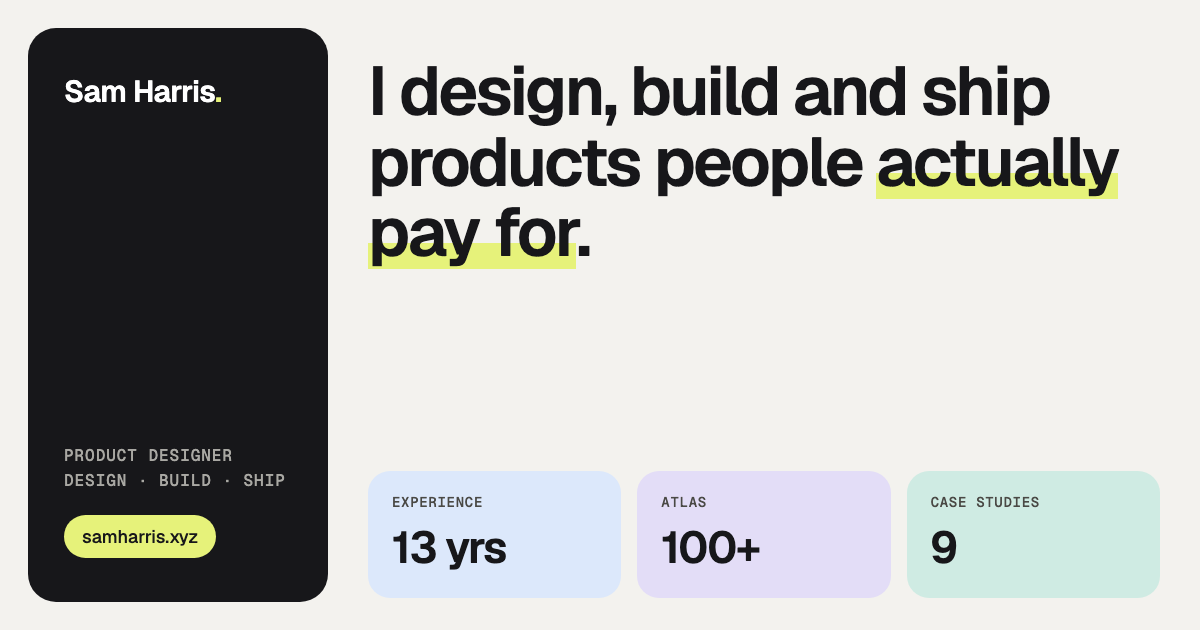
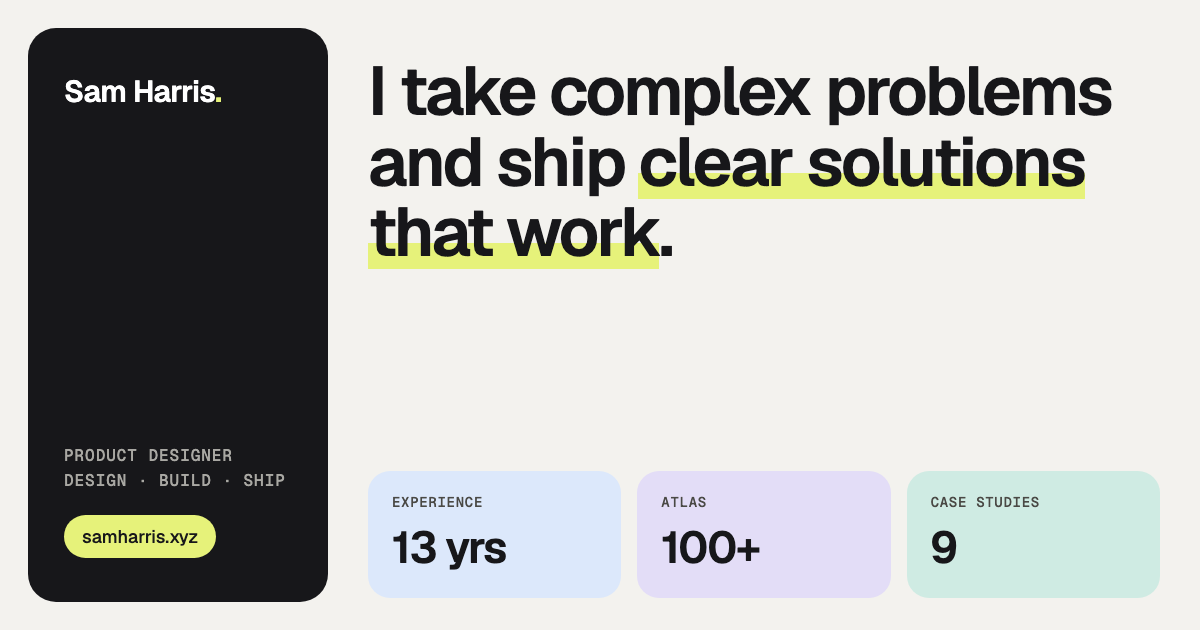
Reword the home headline and make the Noa footer line one link

Changed region(s): [[0.3083, 0.0905, 0.9558, 0.4524]]

diff --git a/index.html b/index.html
@@ -14,7 +14,7 @@
 <meta property="og:image" content="https://samharris.xyz/img/og.png">
 <meta property="og:image:width" content="1200">
 <meta property="og:image:height" content="630">
-<meta property="og:image:alt" content="Sam Harris, product designer: I design, build and ship products people actually pay for.">
+<meta property="og:image:alt" content="Sam Harris, product designer: I take complex problems and ship clear solutions that work.">
 <meta name="twitter:card" content="summary_large_image">
 <meta name="twitter:title" content="Sam Harris | Product designer">
 <meta name="twitter:description" content="Sam Harris, product designer. Thirteen years making complex products simpler: designing the experience, building the front-end and helping shape what gets built.">
@@ -48,8 +48,8 @@
     <header class="head">
       <div class="head-copy">
         <div class="eyebrow">Sam Harris · Product designer at Kato</div>
-        <h1>I design, build and ship products people <mark>actually pay for</mark>.</h1>
-        <p class="intro">13 years taking products from first idea to shipped front-end.</p>
+        <h1>I take complex problems and ship <mark>clear solutions that work</mark>.</h1>
+        <p class="intro">I work out what to build, design it and write the front-end. 13 years of taking products from first idea to production.</p>
       </div>
       <div class="btns">
         <a class="btn secondary" href="sam-harris-cv.pdf" data-umami-event="CV download" target="_blank" rel="noopener">Download CV</a>
@@ -94,7 +94,7 @@
     </section>
 
     <footer class="foot">
-      <span>Also: <a href="case-study-noa.html">Noa</a>, a personal iOS app I designed and built ↗</span>
+      <a class="also" href="case-study-noa.html">Also: <b>Noa</b>, a personal iOS app I designed and built ↗</a>
       <a class="mail" href="mailto:samharris26@gmail.com">samharris26@gmail.com</a>
     </footer>
   </main>

diff --git a/case-study-billing.html b/case-study-billing.html
@@ -14,7 +14,7 @@
 <meta property="og:image" content="https://samharris.xyz/img/og.png">
 <meta property="og:image:width" content="1200">
 <meta property="og:image:height" content="630">
-<meta property="og:image:alt" content="Sam Harris, product designer: I design, build and ship products people actually pay for.">
+<meta property="og:image:alt" content="Sam Harris, product designer: I take complex problems and ship clear solutions that work.">
 <meta name="twitter:card" content="summary_large_image">
 <meta name="twitter:title" content="Society Billing | Sam Harris">
 <meta name="twitter:description" content="Moving ~700 organisations from a manual, CS-led invoicing model to a fully self-serve billing experience.">
@@ -175,7 +175,7 @@
     </div>
 
     <footer class="foot" style="margin-top:0">
-      <span>Also: <a href="case-study-noa.html">Noa</a>, a personal iOS app I designed and built ↗</span>
+      <a class="also" href="case-study-noa.html">Also: <b>Noa</b>, a personal iOS app I designed and built ↗</a>
       <a class="mail" href="mailto:samharris26@gmail.com">samharris26@gmail.com</a>
     </footer>
   </main>

diff --git a/case-study-noa.html b/case-study-noa.html
@@ -14,7 +14,7 @@
 <meta property="og:image" content="https://samharris.xyz/img/og.png">
 <meta property="og:image:width" content="1200">
 <meta property="og:image:height" content="630">
-<meta property="og:image:alt" content="Sam Harris, product designer: I design, build and ship products people actually pay for.">
+<meta property="og:image:alt" content="Sam Harris, product designer: I take complex problems and ship clear solutions that work.">
 <meta name="twitter:card" content="summary_large_image">
 <meta name="twitter:title" content="Personal Noa | Sam Harris">
 <meta name="twitter:description" content="A consumer app that simplifies how individuals, couples, and families manage daily life (calendars, tasks, lists, and reminders) by letting people interact naturally instead of forcing them into rigid systems. Now live on the App Store with over 200 users.">

diff --git a/case-study-hinterview-insights.html b/case-study-hinterview-insights.html
@@ -14,7 +14,7 @@
 <meta property="og:image" content="https://samharris.xyz/img/og.png">
 <meta property="og:image:width" content="1200">
 <meta property="og:image:height" content="630">
-<meta property="og:image:alt" content="Sam Harris, product designer: I design, build and ship products people actually pay for.">
+<meta property="og:image:alt" content="Sam Harris, product designer: I take complex problems and ship clear solutions that work.">
 <meta name="twitter:card" content="summary_large_image">
 <meta name="twitter:title" content="Hinterview Insights | Sam Harris">
 <meta name="twitter:description" content="A 0–1 insights dashboard consolidating key metrics into a single, user-friendly interface, for recruiters optimising their video outreach and managers setting team targets.">

diff --git a/case-study-notifications.html b/case-study-notifications.html
@@ -14,7 +14,7 @@
 <meta property="og:image" content="https://samharris.xyz/img/og.png">
 <meta property="og:image:width" content="1200">
 <meta property="og:image:height" content="630">
-<meta property="og:image:alt" content="Sam Harris, product designer: I design, build and ship products people actually pay for.">
+<meta property="og:image:alt" content="Sam Harris, product designer: I take complex problems and ship clear solutions that work.">
 <meta name="twitter:card" content="summary_large_image">
 <meta name="twitter:title" content="Notifications | Sam Harris">
 <meta name="twitter:description" content="In-app notifications for Kato&#x27;s agency app, taken from first exploration to a shipped notification centre. I product managed, designed and built it.">

diff --git a/case-study-hinterview-extension.html b/case-study-hinterview-extension.html
@@ -14,7 +14,7 @@
 <meta property="og:image" content="https://samharris.xyz/img/og.png">
 <meta property="og:image:width" content="1200">
 <meta property="og:image:height" content="630">
-<meta property="og:image:alt" content="Sam Harris, product designer: I design, build and ship products people actually pay for.">
+<meta property="og:image:alt" content="Sam Harris, product designer: I take complex problems and ship clear solutions that work.">
 <meta name="twitter:card" content="summary_large_image">
 <meta name="twitter:title" content="Hinterview Chrome extension | Sam Harris">
 <meta name="twitter:description" content="A Chrome extension that lets recruiters capture and share candidate video interviews directly from their browser. No tab-juggling.">

diff --git a/app.css b/app.css
@@ -93,6 +93,9 @@ h1 mark{background:linear-gradient(transparent 62%,var(--lime) 62% 92%,transpare
 .foot{display:flex;justify-content:space-between;align-items:center;gap:16px;flex-wrap:wrap;border-top:1px solid var(--border);padding-top:20px;color:var(--text-2);margin-top:-16px}
 .foot a{font-weight:500}
 .foot a.mail{font-weight:400}
+.foot a.also{font-weight:400;color:var(--text-2)}
+.foot a.also b{font-weight:500;color:var(--ink);transition:color .15s}
+.foot a.also:hover,.foot a.also:hover b{color:var(--accent)}
 
 .topbar,.tabs{display:none}
 .toast{position:fixed;left:50%;bottom:28px;transform:translate(-50%,20px);opacity:0;background:var(--ink);color:#fff;padding:12px 18px;border-radius:99px;transition:all .25s;pointer-events:none;z-index:50}

diff --git a/case-study-venuescanner-dashboard.html b/case-study-venuescanner-dashboard.html
@@ -14,7 +14,7 @@
 <meta property="og:image" content="https://samharris.xyz/img/og.png">
 <meta property="og:image:width" content="1200">
 <meta property="og:image:height" content="630">
-<meta property="og:image:alt" content="Sam Harris, product designer: I design, build and ship products people actually pay for.">
+<meta property="og:image:alt" content="Sam Harris, product designer: I take complex problems and ship clear solutions that work.">
 <meta name="twitter:card" content="summary_large_image">
 <meta name="twitter:title" content="VenueScanner Dashboard | Sam Harris">
 <meta name="twitter:description" content="A comprehensive, user-friendly platform for hosts to oversee bookings, communicate with clients, and manage enquiries efficiently.">

diff --git a/case-study-venuescanner-booking.html b/case-study-venuescanner-booking.html
@@ -14,7 +14,7 @@
 <meta property="og:image" content="https://samharris.xyz/img/og.png">
 <meta property="og:image:width" content="1200">
 <meta property="og:image:height" content="630">
-<meta property="og:image:alt" content="Sam Harris, product designer: I design, build and ship products people actually pay for.">
+<meta property="og:image:alt" content="Sam Harris, product designer: I take complex problems and ship clear solutions that work.">
 <meta name="twitter:card" content="summary_large_image">
 <meta name="twitter:title" content="VenueScanner Booking | Sam Harris">
 <meta name="twitter:description" content="Redesigning the &#x27;Mark as Booked&#x27; feature to increase host utilisation: more visible, more usable, more used.">

diff --git a/about.html b/about.html
@@ -14,7 +14,7 @@
 <meta property="og:image" content="https://samharris.xyz/img/og.png">
 <meta property="og:image:width" content="1200">
 <meta property="og:image:height" content="630">
-<meta property="og:image:alt" content="Sam Harris, product designer: I design, build and ship products people actually pay for.">
+<meta property="og:image:alt" content="Sam Harris, product designer: I take complex problems and ship clear solutions that work.">
 <meta name="twitter:card" content="summary_large_image">
 <meta name="twitter:title" content="About | Sam Harris">
 <meta name="twitter:description" content="About Sam Harris: product designer at Kato, designing and building production front-end, and growing into product management.">

diff --git a/work.html b/work.html
@@ -14,7 +14,7 @@
 <meta property="og:image" content="https://samharris.xyz/img/og.png">
 <meta property="og:image:width" content="1200">
 <meta property="og:image:height" content="630">
-<meta property="og:image:alt" content="Sam Harris, product designer: I design, build and ship products people actually pay for.">
+<meta property="og:image:alt" content="Sam Harris, product designer: I take complex problems and ship clear solutions that work.">
 <meta name="twitter:card" content="summary_large_image">
 <meta name="twitter:title" content="Work | Sam Harris">
 <meta name="twitter:description" content="Selected work by Sam Harris: Kato Notifications, Society Billing, Atlas, the Kato design system, Noa and earlier projects.">

diff --git a/case-study-atlas.html b/case-study-atlas.html
@@ -14,7 +14,7 @@
 <meta property="og:image" content="https://samharris.xyz/img/og.png">
 <meta property="og:image:width" content="1200">
 <meta property="og:image:height" content="630">
-<meta property="og:image:alt" content="Sam Harris, product designer: I design, build and ship products people actually pay for.">
+<meta property="og:image:alt" content="Sam Harris, product designer: I take complex problems and ship clear solutions that work.">
 <meta name="twitter:card" content="summary_large_image">
 <meta name="twitter:title" content="Atlas | Sam Harris">
 <meta name="twitter:description" content="Building the workflows and dashboard that turn agent transactions into trusted, live market intelligence.">
